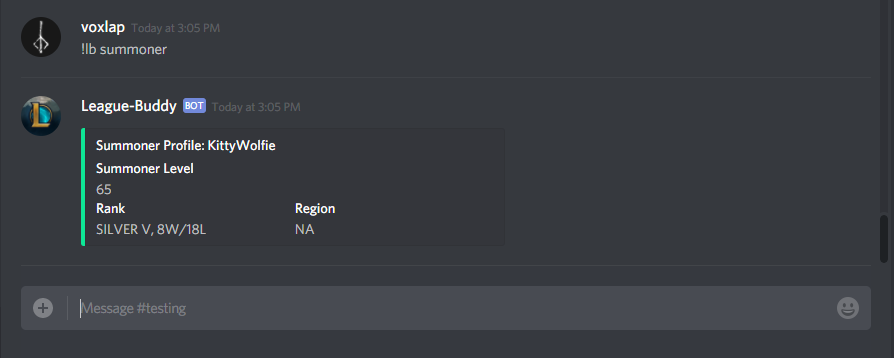
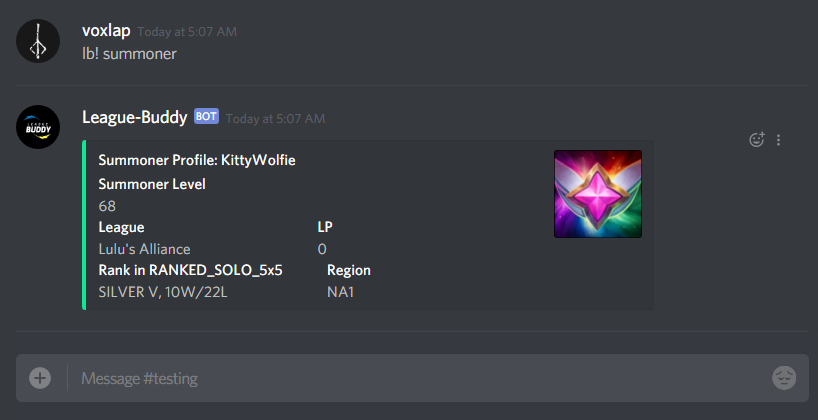
updated screenshots

diff --git a/main.py b/main.py
@@ -30,9 +30,7 @@ def registerRegion(discordUser, region):
     return "Not a valid region, try again"
 
 def summonerStats(discordUser, userID):
-    print(summonerRegion[discordUser])
     league = requests.get('https://' + str(summonerRegion[discordUser]) + '.api.riotgames.com/lol/league/v3/positions/by-summoner/'+ str(summoners[discordUser]['id']) + '?api_key=' + LoLkey).json()
-    print(league)
     league = league[0]
     regionCode = summonerRegion[discordUser]
     embed=discord.Embed(title='**Summoner Profile: ' + summoners[discordUser]['name'] +'**', color=0x0ee796)
@@ -42,14 +40,36 @@ def summonerStats(discordUser, userID):
     embed.add_field(name='LP', value=league['leaguePoints'], inline=True)
     embed.add_field(name='Rank in ' + league['queueType'], value=league['tier'] + ' ' + league['rank'] + ', ' + str(league['wins']) + 'W/' + str(league['losses']) + 'L', inline=True)
     embed.add_field(name='Region', value=regionCode, inline=True)
-    
-
-
-
-
-
-    
     return embed
+
+def champMessage(champ):
+    champData = requests.get('https://na1.api.riotgames.com/lol/static-data/v3/champions/' + str(getChampID(champ)) + '?locale=en_US&champData=all&tags=all&api_key=' + LoLkey).json()
+    embed=discord.Embed(title='**Champion: ' + champData['key'] + ' ' + champData['title'] +'**', color=0x0ee796)
+    embed.set_thumbnail(url='http://ddragon.leagueoflegends.com/cdn/8.5.2/img/champion/' + champData['key'] + '.png')
+    allyTips = ayallyTips(champData['allytips'])
+    enemyTips = ayenemyTips(champData['enemytips'])
+    embed.add_field(name='Ally Tips', value=allyTips, inline=False)
+    embed.add_field(name='Enemy Tips', value=enemyTips, inline=False)
+    embed.add_field(name='Attack Damage:', value=champData['stats']['attackdamage'], inline=True)
+    embed.add_field(name='MP:', value=champData['stats']['mp'], inline=True)
+    embed.add_field(name='HP:', value=champData['stats']['hp'], inline=True)
+    embed.add_field(name='Armor:', value=champData['stats']['armor'], inline=True)
+    embed.add_field(name='Movespeed:', value=champData['stats']['movespeed'], inline=True)
+    embed.add_field(name='Attack Range:', value=champData['stats']['attackrange'], inline=True)
+    return embed
+
+def ayallyTips(tipList):
+    message = str()
+    for i in range(len(tipList)):
+        message += ':small_blue_diamond: ' + tipList[i] + '\n'
+    return message
+
+def ayenemyTips(tipList):
+    message = str()
+    for i in range(len(tipList)):
+        message += ':small_orange_diamond: ' + tipList[i] + '\n'
+    return message
+
 
 def lastMatchMessage(DISCORD_USER, server, userID, match):
     teamID = getTeam(match, summoners[DISCORD_USER]['accountId'])
@@ -74,21 +94,29 @@ def lastMatchMessage(DISCORD_USER, server, userID, match):
     embed.add_field(name='Penta Kills:', value=str(stats['pentaKills']), inline=True)
     embed.add_field(name='Unreal Kills:', value=str(stats['unrealKills']), inline=True)
     embed.set_footer(text='Thanks for using League-Buddy!')
-
     return embed
 
 def lastMatchTeamMessage(match, teamID, userID):
     embed=discord.Embed(title='**Summoner\'s Team Performance:**', description='<@' + userID + '>' + '\'s team\'s statistics during their last match', color=0x0ee796)
-    embed.add_field(name='Kills', value=totalTeamKills(match, teamID), inline=True)
-    embed.add_field(name='Deaths', value=totalTeamDeaths(match, teamID), inline=True)
+    embed.add_field(name='Kills', value=':crossed_swords:' + ' ' + str(totalTeamKills(match, teamID)), inline=True)
+    embed.add_field(name='Deaths', value=':skull:' + ' ' + str(totalTeamDeaths(match, teamID)), inline=True)
     embed.add_field(name='Towers Killed', value=totalTeamTowerKills(match, teamID), inline=False)
     embed.add_field(name='Inhibitor Kills', value=totalTeamInhibitorKills(match, teamID), inline=True)
-    embed.add_field(name='Dragons Killed', value=totalTeamDragonKills(match, teamID), inline=True)
+    embed.add_field(name='Dragons Killed', value=':dragon:' + ' ' + str(totalTeamDragonKills(match, teamID)), inline=True)
     embed.add_field(name='Barons Killed', value=totalTeamBaronKills(match, teamID), inline=True)
     embed.add_field(name='Rift Herald Kills', value=totalTeamRiftHeraldKills(match, teamID), inline=True)
     embed.add_field(name='Vilemaws Killed', value=totalTeamVilemawKills(match, teamID), inline=True)
-
     return embed
+
+
+def getChampID(champ):
+    champs = requests.get('https://na1.api.riotgames.com/lol/static-data/v3/champions?locale=en_US&dataById=false&api_key=' + LoLkey).json()
+    print(champs)
+    for i in range(len(champs['data'])):
+        if str(list(champs['data'].keys())[i]) == str(champ):
+            print(champs['data'][list(champs['data'].keys())[i]]['id'])
+            return champs['data'][list(champs['data'].keys())[i]]['id']
+ 
 def getEmoji(champName):
     champName = str(champName).replace(" ", "")
     champName = str(champName).replace('\'', '')
@@ -123,7 +151,6 @@ def sendCustomIconEmoji(icon):
                 for j in range(len(list(client.servers)[i].emojis)):
                     if list(client.servers)[i].emojis[j].name == icon:
                         emojiID = str(list(client.servers)[i].emojis[j].id)
-                        print(emojiID)
                         return '<:'+ icon +':' + emojiID + '>'
                     
                     
@@ -283,8 +310,6 @@ def getParticipantID(match, accountID):
 
 ##############################################################################
 
-
-
 def messageTokenizor(message):
     tokens = nltk.word_tokenize(message)
     return tokens
@@ -327,5 +352,8 @@ async def on_message(message):
     if message.content.startswith('lb! oof'):
         text = messageTokenizor(message.content)
         await client.send_message(message.channel, sendCustomIconEmoji(text[3]))
+    if message.content.startswith('lb! champion'):
+        text = messageTokenizor(message.content)
+        await client.send_message(message.channel, embed=champMessage(text[3]))
 #Discord Bot Authentication data
 client.run(token)
